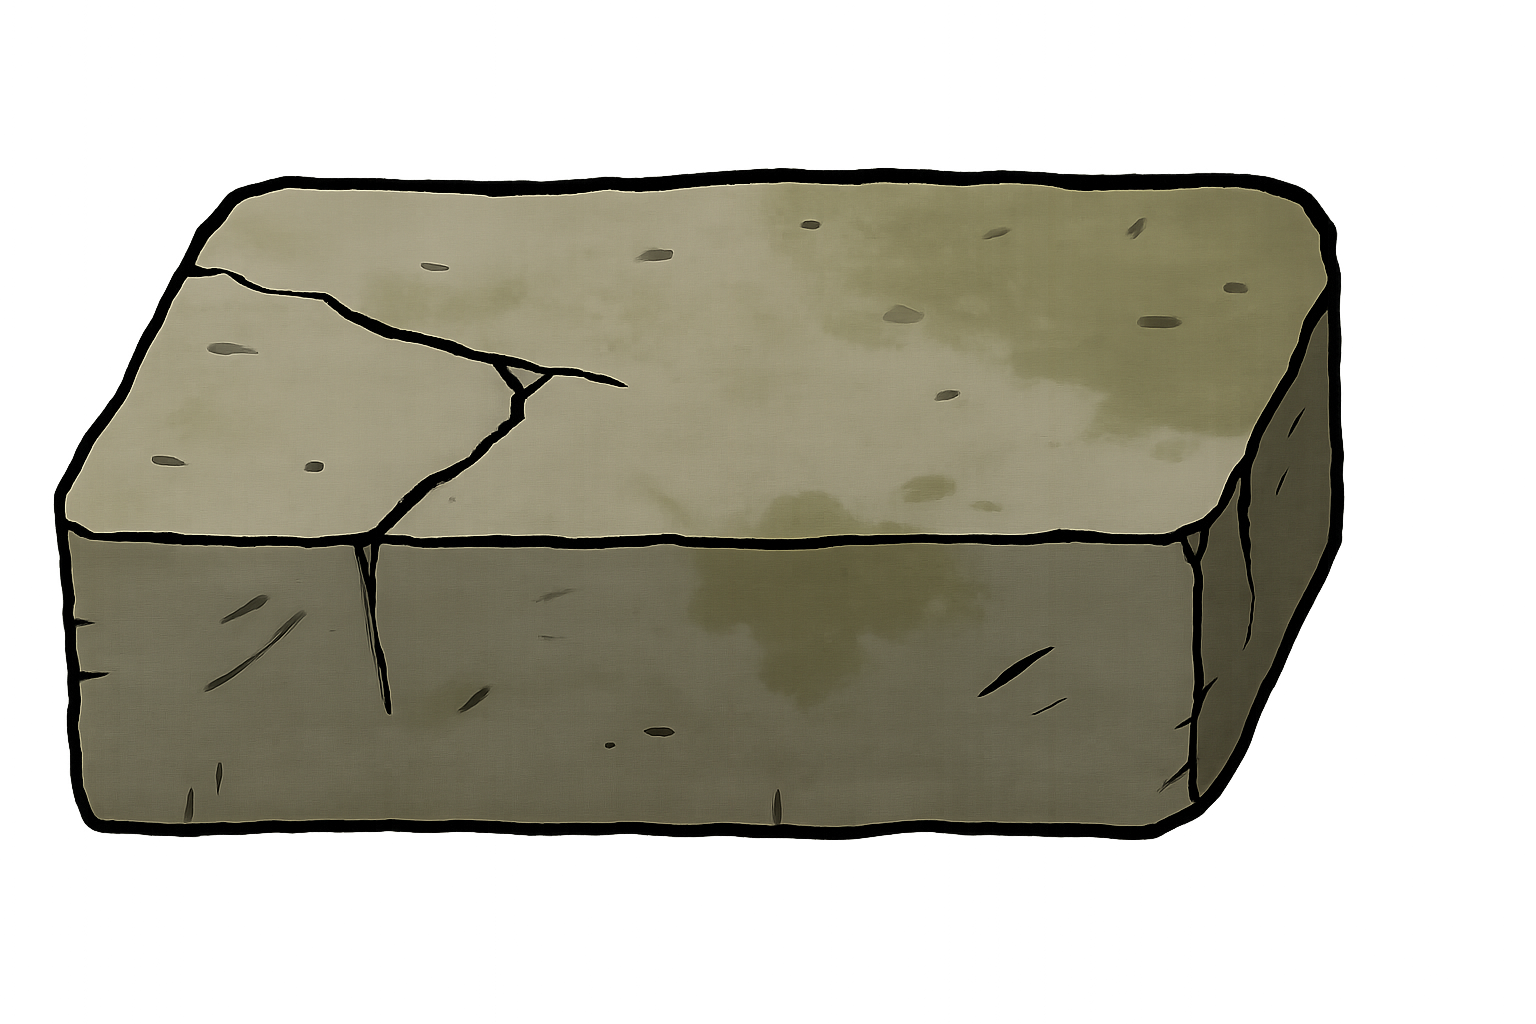
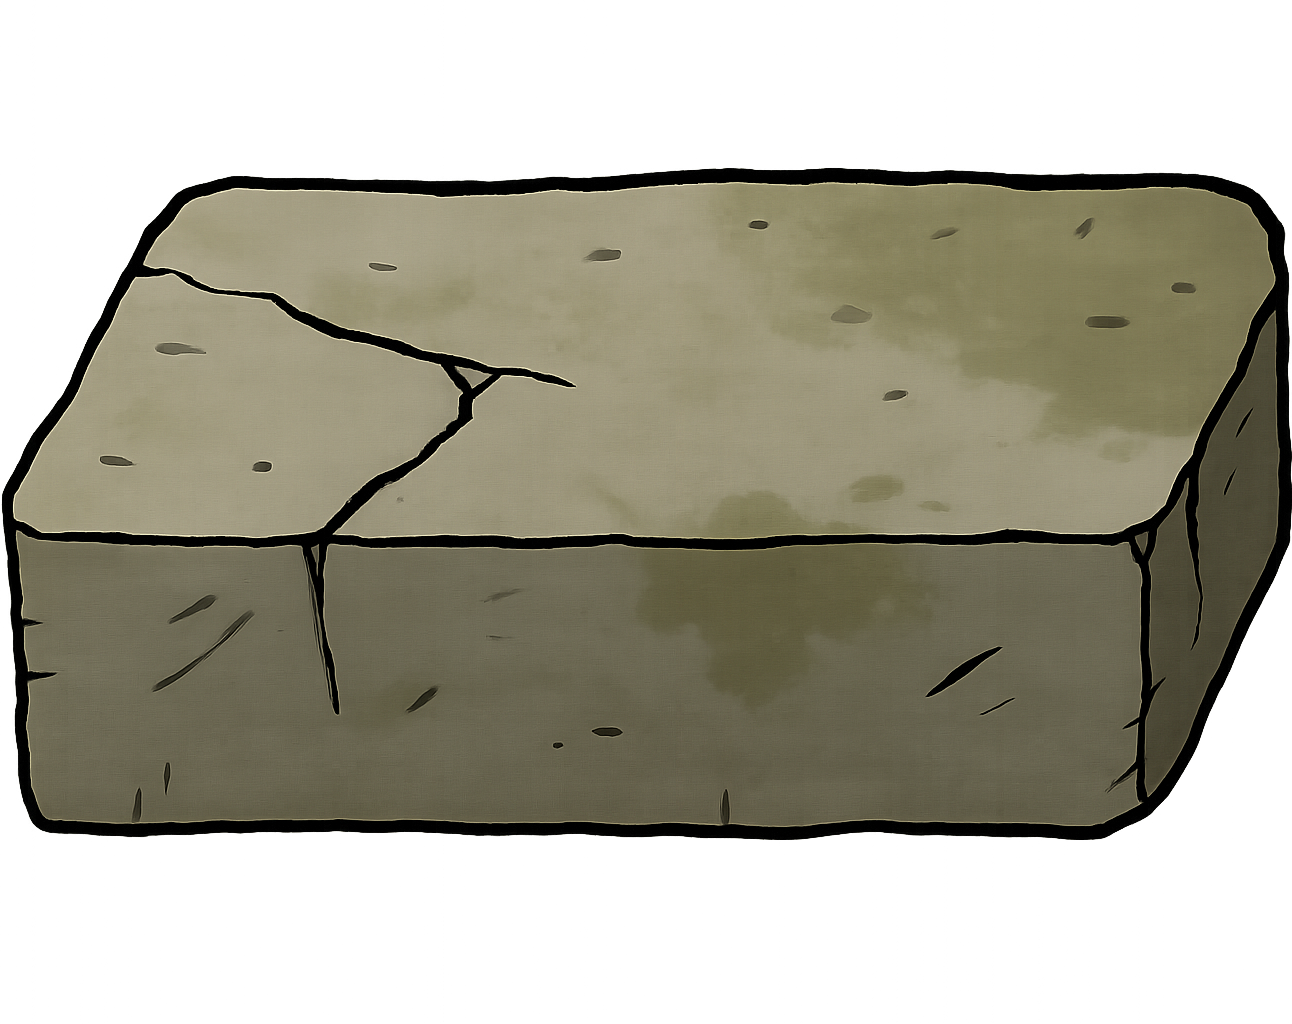
Добавлено изображение для сбиваемого препятствия и логика разворота

diff --git a/Enemy/HitDownEnemy.js b/Enemy/HitDownEnemy.js
@@ -95,20 +95,28 @@ export class HitDownEnemy {
 
             const sourceX = col * frameWidth;
             const sourceY = row * frameHeight;
+
+            ctx.save();
+
+            if (this.relativeSpeed < 0) {
+                ctx.translate(this.x + this.width, this.y);
+                ctx.scale(-1, 1);
+            } else {
+                ctx.translate(this.x, this.y);
+            }
+
             if (this.hitCooldown > 0) {
-                ctx.save();
-                ctx.globalAlpha = 0.5 + 0.5*Math.sin(Date.now() * 0.02);
+                ctx.globalAlpha = 0.5 + 0.5 * Math.sin(Date.now() * 0.02);
             }
 
             ctx.drawImage(
                 this.sprite,
                 sourceX, sourceY, frameWidth, frameHeight,
-                this.x, this.y, this.width, this.height
+                0, 0, this.width, this.height
             );
-            if (this.hitCooldown > 0)
-                ctx.restore();
-        }
-        else {
+
+            ctx.restore();
+        } else {
             let color = 'orange';
             if (this.curHealth === 2) color = 'yellow';
             else if (this.curHealth === 1) color = 'red';

diff --git a/config.js b/config.js
@@ -55,8 +55,8 @@ export const config = {
         hitdown: {
             sprite: {
                 src: "Images/Enemies/villager.png",
-                frameWidth: 311,
-                frameHeight: 600,
+                frameWidth: 1024,
+                frameHeight: 1536,
                 framesPerRow: 1,
                 rows: 1,
                 frames: 1,
@@ -101,7 +101,7 @@ export const config = {
         segmentHeight: 20,
         sprite: {
                 src: "Images/platform.png",
-                frameWidth: 1536,
+                frameWidth: 1292,
                 frameHeight: 1024,
                 framesPerRow: 1,
                 rows: 1,
